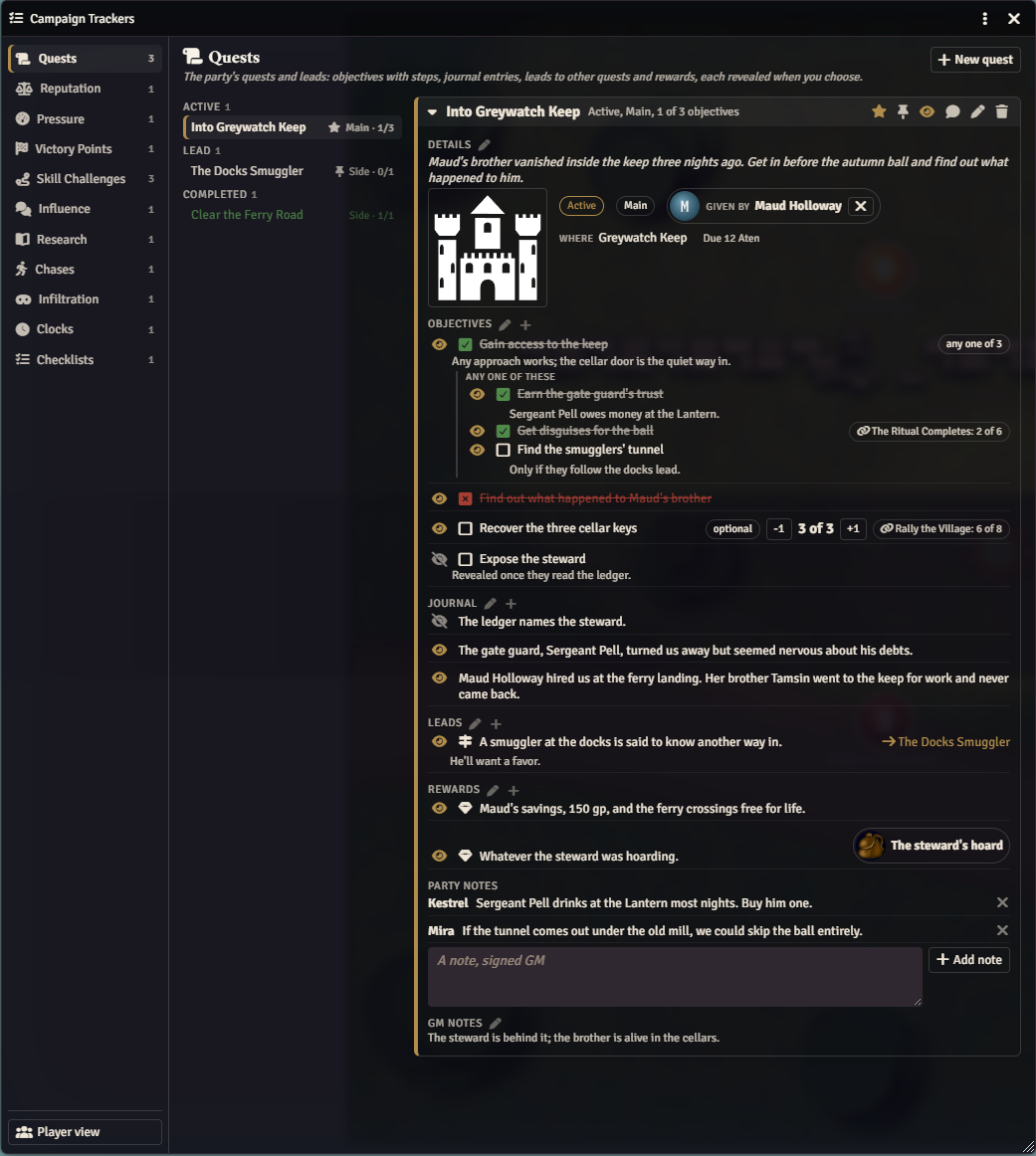
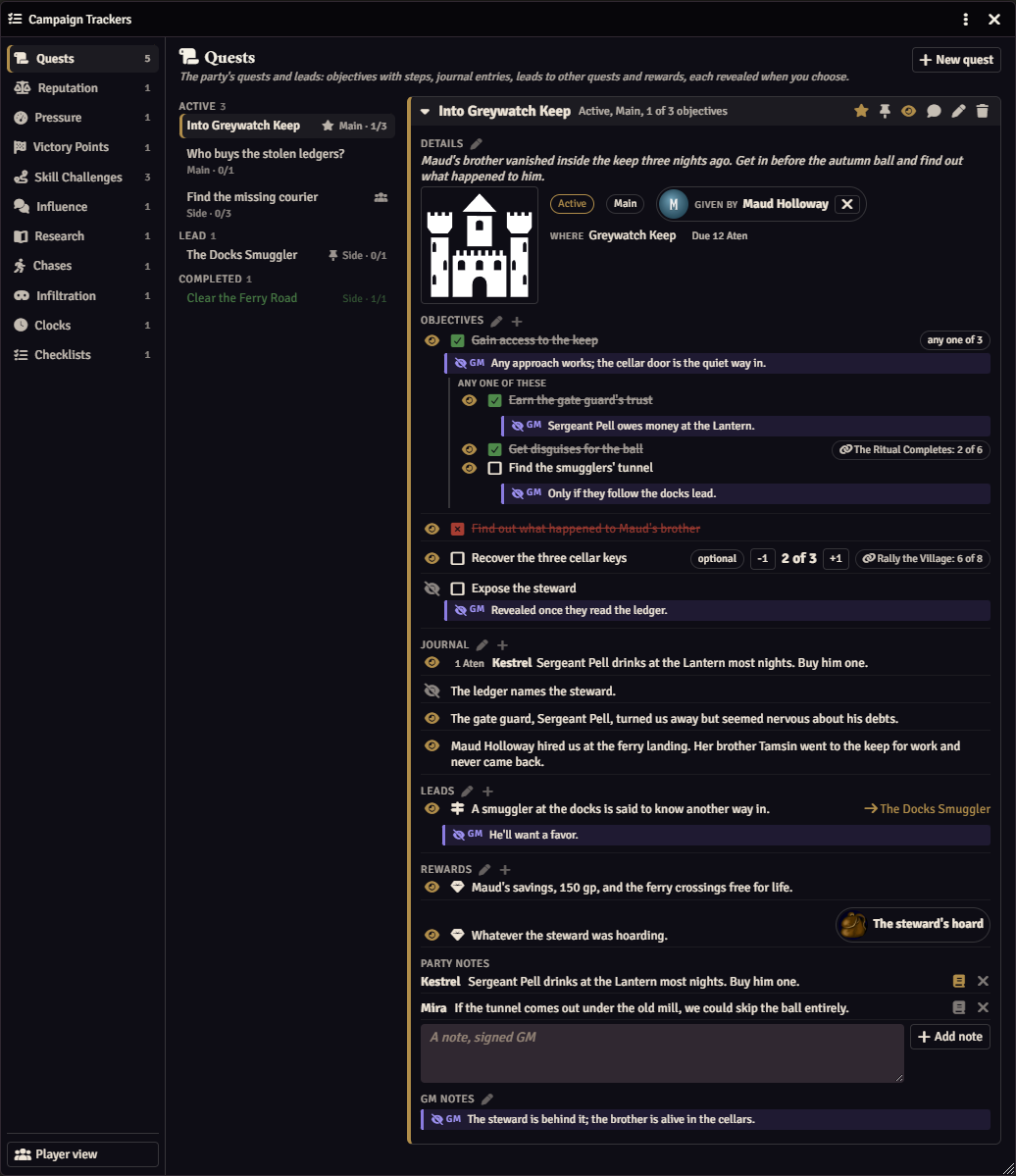
2.2.0: GM notes in a marked box; party notes into the journal
GM notes on quests show in a purple box tagged GM. The GM adds a party
note to the quest's journal with one click: dated today, revealed,
signed with the note's author (the entry remembers the note, so it's
added once). README text and the quest picture retaken.

Claude-Session: https://claude.ai/code/session_01K6FfS8YfTTEmbKa519h3Y6

diff --git a/styles/trackers.css b/styles/trackers.css
@@ -253,6 +253,17 @@
 .pct-app .pct-qleads li > .pct-gm, .pct-app .pct-qrewards li > .pct-gm { flex-basis: 100%; padding-left: 22px; }
 .pct-app .pct-qgoals .pct-gm { padding-left: 24px; }
 .pct-app .pct .pct-qsteps > li > .pct-gm { flex-basis: 100%; padding-left: 44px; }
+/* GM notes on a quest: a tinted box tagged GM. */
+.pct-app .pct .pct-gm.pct-gmbox { display: flex; align-items: baseline; gap: 6px; opacity: 1; margin: 3px 0 4px; padding: 3px 8px; border-left: 3px solid #8a7be0; border-radius: 3px; background: rgba(124, 104, 230, 0.14); }
+.pct-app .pct .pct-qgoals .pct-gm.pct-gmbox { margin-left: 24px; padding-left: 8px; }
+.pct-app .pct .pct-qsteps > li > .pct-gm.pct-gmbox { margin-left: 44px; padding-left: 8px; }
+.pct-app .pct .pct-qleads li > .pct-gm.pct-gmbox, .pct-app .pct .pct-qrewards li > .pct-gm.pct-gmbox { flex-basis: calc(100% - 22px); margin-left: 22px; padding-left: 8px; }
+.pct-app .pct .pct-gmbox > span:last-child { flex: 1 1 auto; min-width: 0; }
+.pct-app .pct .pct-gmtag { flex: none; display: inline-flex; align-items: center; gap: 3px; font-size: 10px; font-weight: 700; letter-spacing: 0.05em; color: #9d91f0; }
+.pct-app .pct .pct-entry-by { margin-right: 2px; }
+.pct-app .pct .pct-qnotes .pct-btn[data-action="pctQNoteJournal"] { border: none; opacity: 0.5; padding: 0 3px; }
+.pct-app .pct .pct-qnotes .pct-btn[data-action="pctQNoteJournal"]:hover { opacity: 1; }
+.pct-app .pct .pct-qnote-kept { color: var(--pct-accent); padding: 0 3px; }
 .pct-app .pct .pct-qlink { color: var(--pct-accent); white-space: nowrap; }
 .pct-app .pct-qrewards .pct-npc { cursor: pointer; }
 .pct-app .pct .pct-qlist a.pct-qli-completed { color: var(--pct-ok); }

diff --git a/README.md b/README.md
@@ -201,7 +201,7 @@ A quest log for the party: what they've taken on, what's next, what they've lear
 - **Journal** entries, each with a date, for what happened along the way.
 - **Leads**: a line of text that can point to another quest.
 - **Rewards**: text, and a loot actor if it's treasure.
-- Notes only you see, on the quest and on each objective, step, lead and reward.
+- Notes only you see, on the quest and on each objective, step, lead and reward. They show in a purple box marked GM, so they never read as something players see.
 
 The pencil on a quest edits all of it. Each section also has its own pencil and +, so you can add an objective or a GM note without opening the rest.
 
@@ -221,7 +221,7 @@ The pencil on a quest edits all of it. Each section also has its own pencil and 
 
 - Read what you've revealed, and nothing else: no GM notes, no hidden objectives, steps or leads. A lead names the quest it points to only once that quest is revealed.
 - Tick a revealed objective or step done. You get a card each time, with anything you prepared to reveal. They can untick what a player ticked, but not what you marked. Turn this off with the setting "Players can tick quest objectives".
-- Add notes to a quest, signed with their character's name. Everyone sees them. Players delete their own; you can delete any.
+- Add notes to a quest, signed with their character's name. Everyone sees them. Players delete their own; you can delete any. The book on a note adds it to the quest's journal, dated today, revealed and signed with the player's name, so a good find becomes part of the record. A gold book means it's already there.
 - Start party quests of their own (below).
 - Players' ticks, notes and party quests go through a GM's client, so a GM needs to be logged in for them.
 

diff --git a/CHANGELOG.md b/CHANGELOG.md
@@ -1,5 +1,10 @@
 # Changelog
 
+## 2.2.0
+
+- GM notes on a quest (on the quest itself and on each objective, step, lead and reward) show in a purple box marked GM, so they never read as something players see.
+- The GM can add a party note to the quest's journal with the book beside it: the entry is dated today, revealed, and signed with the player's name. A gold book shows a note that's already there.
+
 ## 2.1.0
 
 - Party quests: players make quests of their own (New quest on the Quests tab), and anyone in the party can edit them: the name, summary, status, category, giver, place, due date, objectives and steps, journal entries, leads and rewards. A GM needs to be logged in, since the GM's client records every change. Only the player who made a party quest, or the GM, can delete it, and each player can make up to 20. Ticks and counts on a party quest need no GM card. The rest of the party gets a notice when one is made; edits show as Updated without a notice. A setting, "Players can make quests", turns this off.
